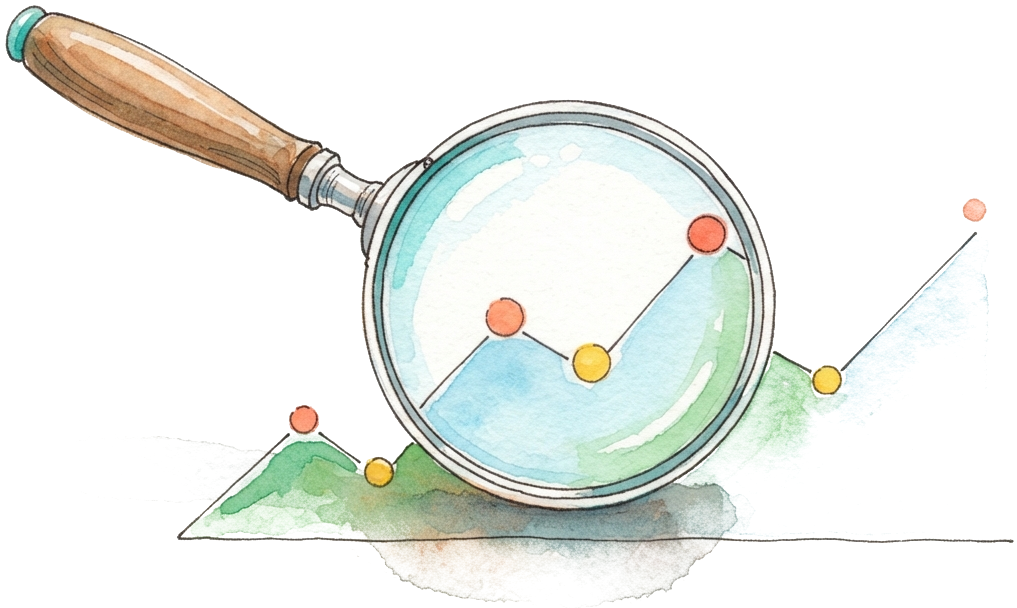
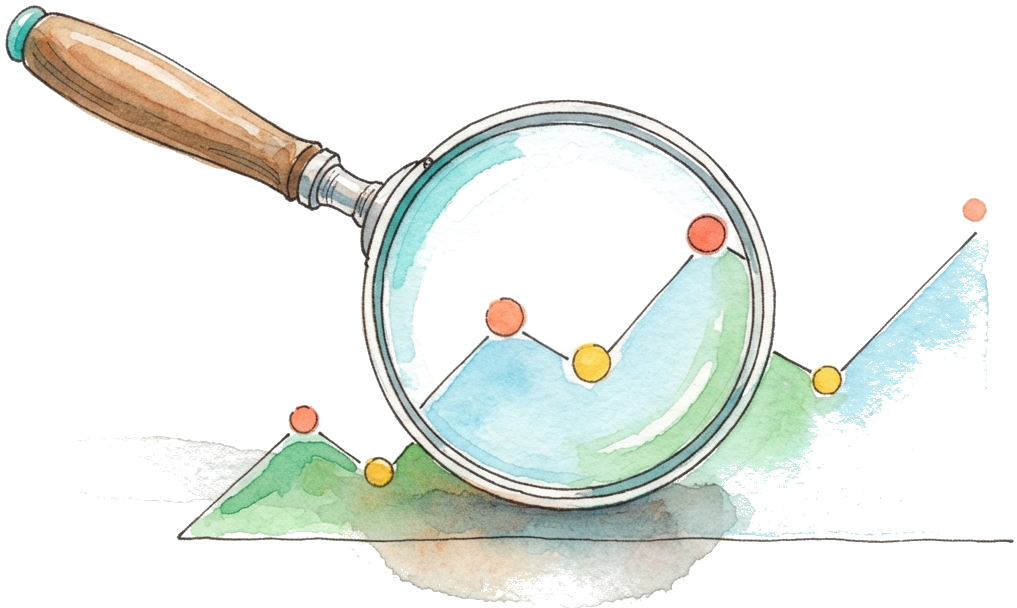
fix(landing): zpruhlednena cocka lupy v prehled-o-pokroku
Cocka byla kryci bily kotouc, takze pres sklo neprosvitala barva karty.
Uzavrena bila kapsa (49 925 px) zpruhlednena, graf uvnitr cocky zustal.

Zbyvajicich 13 ilustraci proverneno slozenim na skutecne barvy svych
karet - jsou v poradku a neopravuji se. Postavu z nich ma jedine diktat
(poskozeni 727 px, neviditelne), ostatni jsou objekty, kde nizsi alfa
tvori mekky akvarelovy okraj.

Changed region(s): [[0.1829, 0.3125, 0.9754, 1.0], [0.2134, 0.6875, 0.3353, 0.7812], [0.3353, 0.75, 0.3658, 0.7812]]

diff --git a/PROJECT_STATUS.md b/PROJECT_STATUS.md
@@ -152,8 +152,10 @@ src/
   - *opačný případ — vyříznutá bílá, která do kresby patří* → `prehled-pro-rodice`: deska knihy i skla brýlí byly průhledné, prosvítala jimi mátová. Vylito zpět paint-bucketem ze seedu.
 - 🔎 **Klíčové zjištění: RGB je i u alfa 0 zachované**, takže se dá alfa přepočítat a originály nejsou potřeba. Podmínka je číst pixely přes `LockBits` — `Graphics.DrawImage` premultiplikuje a u alfa 0 **vynuluje RGB** (nejdřív mi tím vyšla deska knihy černá).
 - ⚠ **Pravidlo, které stálo jeden falešný pokus:** plně průhledné pixely se musí nechat být (jsou vyříznuté záměrně — pozadí pod stolem, mezi nohami židle). Obnovuje se **jen rozežraná částečná alfa**; první verze zakryla i tyhle plochy bíle.
+  - *bílá čočka lupy* → `prehled-o-pokroku`: čočka byla krycí bílý kotouč, kartou přes sklo neprosvítalo. Zprůhledněna, graf uvnitř zůstal.
 - 🔧 Nástroj uložen jako `scripts/fix-landing-alpha.ps1` (`-ScanOnly` vypíše uzavřené kapsy s id/bbox, `-ClearIds` je zprůhlední, `-FillSeeds` naopak vylije zpět, `-Preview` složí náhled na barvě karty).
-- **Zbývá 14 ilustrací** se stejnou vadou. U dekorativních kreseb bez postav (slunce, batoh, štít) je zákrok sporný — plné zkrytí ztvrdí měkké akvarelové okraje, proto jsem je zatím nechal být a čekám na rozhodnutí.
+- ✅ **Zbývajících 13 ilustrací prověřeno a je v pořádku** — složeny na skutečné barvy svých karet a projity. Postavu z nich má jedině `diktat` a ta je poškozená zanedbatelně (727 px). Ostatní jsou objekty (štít, slunce, kompas, batoh, kostky, lístky, květináč, graf, knihy, terč, sešit, koláč); jejich nižší alfa je měkký akvarelový okraj, ne vada — plné zkrytí by ho zbytečně ztvrdilo. **Nic dalšího se opravovat nebude.**
+- ⚠ Pozor při psaní pomocných PowerShell skriptů: proměnné **nerozlišují velikost písmen**, takže `$w` v cyklu přepíše `$W`. Chvíli mě to mátlo u rozměrů kontaktního listu.
 - ℹ Přidán lokální `.claude/launch.json` (dev server `npm run dev`, port 8080) — je v `.gitignore`, necommituje se.
 
 ### Session 2026-08-31 (pokr. 7) — Wave B, 19. dávka (4 témata, vše g3): 133 → 109 nálezů:
